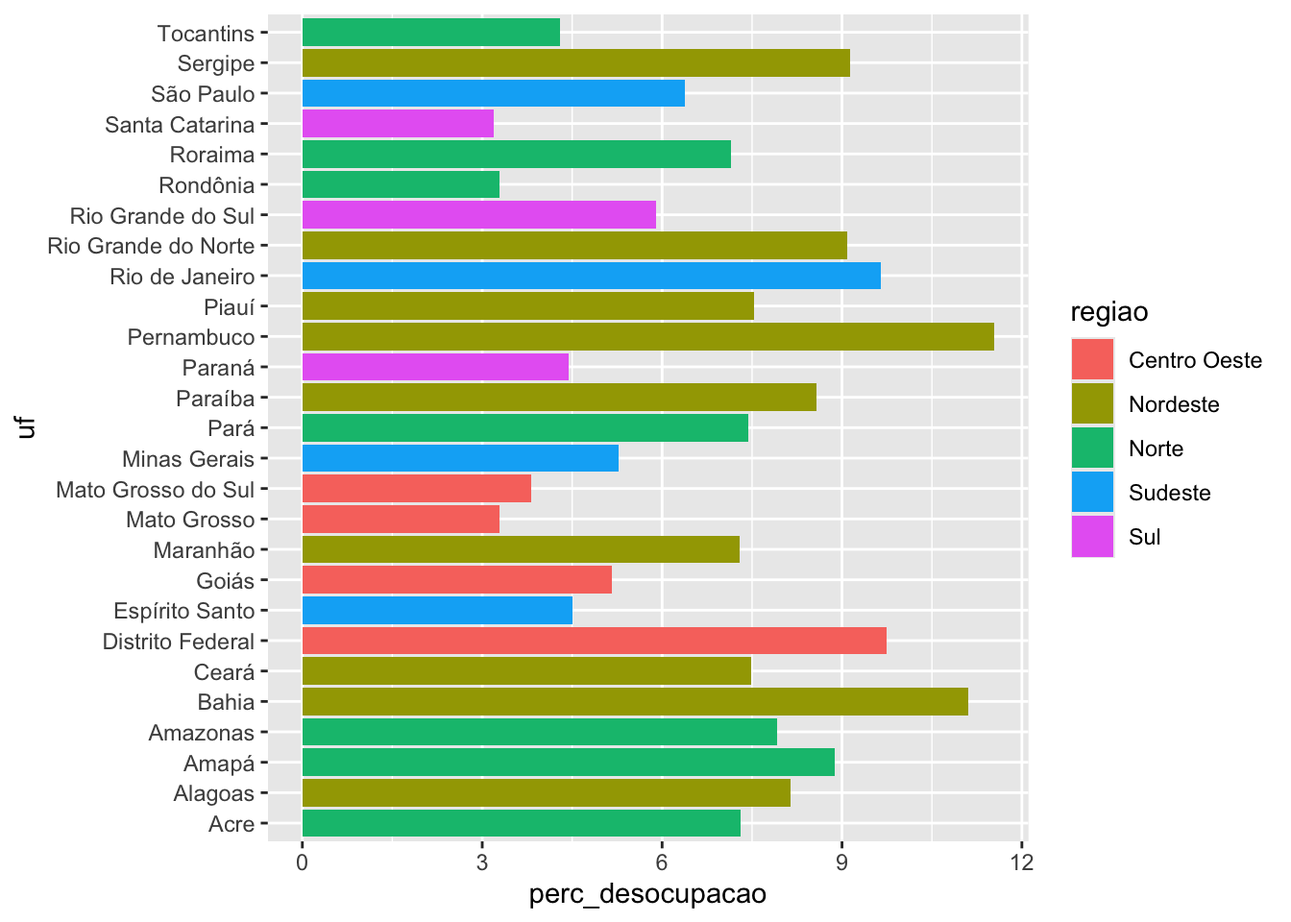
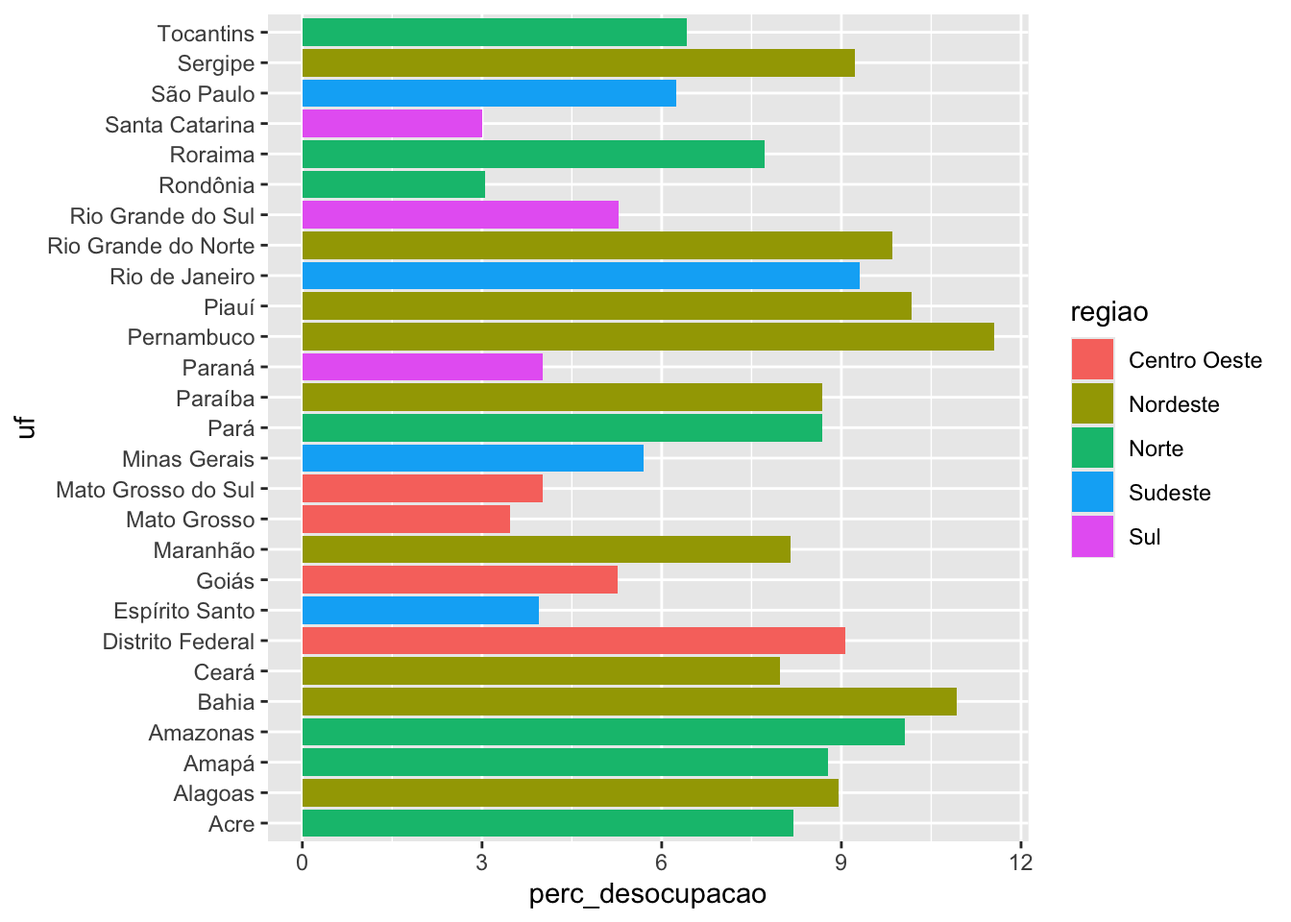
Built site for gh-pages

diff --git a/visualizacao/dia-2.html b/visualizacao/dia-2.html
@@ -255,19 +255,6 @@ pre > code.sourceCode > span > a:first-child::before { text-decoration: underlin
 </header>
 
 
-<div class="callout callout-style-default callout-warning callout-titled">
-<div class="callout-header d-flex align-content-center">
-<div class="callout-icon-container">
-<i class="callout-icon"></i>
-</div>
-<div class="callout-title-container flex-fill">
-Aviso
-</div>
-</div>
-<div class="callout-body-container callout-body">
-<p>Página em construção.</p>
-</div>
-</div>
 <section id="carregando-pacotes" class="level2" data-number="5.1">
 <h2 data-number="5.1" class="anchored" data-anchor-id="carregando-pacotes"><span class="header-section-number">5.1</span> Carregando pacotes</h2>
 <p>O pacote <code>tidyverse</code> é um conjunto de pacotes, e nele encontramos pacotes úteis para essa oficina, como o <code>readr</code>, <code>dplyr</code> e <code>ggplot2</code>. Vamos carregá-lo:</p>
@@ -291,7 +278,7 @@ Aviso
 <h2 data-number="5.2" class="anchored" data-anchor-id="importando-dados"><span class="header-section-number">5.2</span> Importando dados</h2>
 <p>Vamos carregar a base de dados com a função <code>read_rds()</code>:</p>
 <div class="cell">
-<div class="sourceCode cell-code" id="annotated-cell-2"><pre class="sourceCode r code-annotation-code code-with-copy code-annotated"><code class="sourceCode r"><a class="code-annotation-anchor" data-target-cell="annotated-cell-2" data-target-annotation="1" onclick="event.preventDefault();">1</a><span id="annotated-cell-2-1" class="code-annotation-target"><a href="#annotated-cell-2-1" aria-hidden="true" tabindex="-1"></a>dados <span class="ot">&lt;-</span> readr<span class="sc">::</span><span class="fu">read_rds</span>(<span class="st">"dados/sidra_4092_arrumado.rds"</span>)</span>
+<div class="sourceCode cell-code" id="annotated-cell-2"><pre class="sourceCode r code-annotation-code code-with-copy code-annotated"><code class="sourceCode r"><a class="code-annotation-anchor" data-target-cell="annotated-cell-2" data-target-annotation="1" onclick="event.preventDefault();">1</a><span id="annotated-cell-2-1" class="code-annotation-target"><a href="#annotated-cell-2-1" aria-hidden="true" tabindex="-1"></a>dados <span class="ot">&lt;-</span> <span class="fu">read_rds</span>(<span class="st">"dados/sidra_4092_arrumado.rds"</span>)</span>
 <a class="code-annotation-anchor" data-target-cell="annotated-cell-2" data-target-annotation="2" onclick="event.preventDefault();">2</a><span id="annotated-cell-2-2" class="code-annotation-target"><a href="#annotated-cell-2-2" aria-hidden="true" tabindex="-1"></a><span class="fu">glimpse</span>(dados)</span><div class="code-annotation-gutter-bg"></div><div class="code-annotation-gutter"></div></code><button title="Copiar para a área de transferência" class="code-copy-button"><i class="bi"></i></button></pre></div>
 <div class="cell-annotation">
 <dl class="code-annotation-container-grid">
@@ -306,7 +293,7 @@ Aviso
 </dl>
 </div>
 <div class="cell-output cell-output-stdout">
-<pre><code>Rows: 1,350
+<pre><code>Rows: 1,431
 Columns: 16
 $ uf                                       &lt;chr&gt; "Amapá", "Bahia", "Rio Grande…
 $ uf_codigo                                &lt;fct&gt; 16, 29, 24, 27, 13, 28, 25, 2…
@@ -478,7 +465,7 @@ $ periodo_pandemia                         &lt;dbl&gt; 0, 0, 0, 0, 0, 0, 0, 0, 0
 <p>No caso do nosso exemplo, queremos ordenar as barras de acordo com o valor de <code>perc_desocupacao</code>, e a variável categórica que queremos ordenar é <code>uf</code>. Portanto, usaremos <code>fct_reorder(uf, perc_desocupacao)</code>.</p>
 <div class="cell">
 <div class="sourceCode cell-code" id="annotated-cell-8"><pre class="sourceCode r code-annotation-code code-with-copy code-annotated"><code class="sourceCode r"><span id="annotated-cell-8-1"><a href="#annotated-cell-8-1" aria-hidden="true" tabindex="-1"></a>grafico_ordenado <span class="ot">&lt;-</span> dados_tri_recente <span class="sc">|&gt;</span> </span>
-<a class="code-annotation-anchor" data-target-cell="annotated-cell-8" data-target-annotation="1" onclick="event.preventDefault();">1</a><span id="annotated-cell-8-2" class="code-annotation-target"><a href="#annotated-cell-8-2" aria-hidden="true" tabindex="-1"></a>  <span class="fu">mutate</span>(<span class="at">uf_fct =</span> forcats<span class="sc">::</span><span class="fu">fct_reorder</span>(uf, perc_desocupacao)) <span class="sc">|&gt;</span></span>
+<a class="code-annotation-anchor" data-target-cell="annotated-cell-8" data-target-annotation="1" onclick="event.preventDefault();">1</a><span id="annotated-cell-8-2" class="code-annotation-target"><a href="#annotated-cell-8-2" aria-hidden="true" tabindex="-1"></a>  <span class="fu">mutate</span>(<span class="at">uf_fct =</span> <span class="fu">fct_reorder</span>(uf, perc_desocupacao)) <span class="sc">|&gt;</span></span>
 <span id="annotated-cell-8-3"><a href="#annotated-cell-8-3" aria-hidden="true" tabindex="-1"></a>  <span class="fu">ggplot</span>() <span class="sc">+</span> </span>
 <a class="code-annotation-anchor" data-target-cell="annotated-cell-8" data-target-annotation="2" onclick="event.preventDefault();">2</a><span id="annotated-cell-8-4" class="code-annotation-target"><a href="#annotated-cell-8-4" aria-hidden="true" tabindex="-1"></a>  <span class="fu">aes</span>(<span class="at">y =</span> uf_fct, <span class="at">x =</span> perc_desocupacao) <span class="sc">+</span></span>
 <span id="annotated-cell-8-5"><a href="#annotated-cell-8-5" aria-hidden="true" tabindex="-1"></a>  <span class="fu">geom_col</span>()</span>
@@ -552,7 +539,7 @@ $ periodo_pandemia                         &lt;dbl&gt; 0, 0, 0, 0, 0, 0, 0, 0, 0
 <p>O <code>{ggplot2}</code> apresenta várias funções para trabalhar com as escalas dos gráficos. Essas funções apresentam o prefixo <code>scale_</code>.</p>
 <p>Vamos explorar algumas dessas funções para trabalhar com escalas, mas lembre-se que existem muitas outras funções para customizar as escalas dos gráficos.</p>
 <div class="callout callout-style-default callout-tip callout-titled">
-<div class="callout-header d-flex align-content-center" data-bs-toggle="collapse" data-bs-target=".callout-2-contents" aria-controls="callout-2" aria-expanded="false" aria-label="Toggle callout">
+<div class="callout-header d-flex align-content-center" data-bs-toggle="collapse" data-bs-target=".callout-1-contents" aria-controls="callout-1" aria-expanded="false" aria-label="Toggle callout">
 <div class="callout-icon-container">
 <i class="callout-icon"></i>
 </div>
@@ -561,7 +548,7 @@ Lista de funções para escalas no ggplot2
 </div>
 <div class="callout-btn-toggle d-inline-block border-0 py-1 ps-1 pe-0 float-end"><i class="callout-toggle"></i></div>
 </div>
-<div id="callout-2" class="callout-2-contents callout-collapse collapse">
+<div id="callout-1" class="callout-1-contents callout-collapse collapse">
 <div class="callout-body-container callout-body">
 <div class="cell">
 <div class="sourceCode cell-code" id="cb9"><pre class="sourceCode r code-with-copy"><code class="sourceCode r"><span id="cb9-1"><a href="#cb9-1" aria-hidden="true" tabindex="-1"></a><span class="fu">ls</span>(<span class="st">"package:ggplot2"</span>) <span class="sc">|&gt;</span> </span>
@@ -675,7 +662,7 @@ Lista de funções para escalas no ggplot2
 </div>
 </div>
 <div class="callout callout-style-default callout-tip callout-titled">
-<div class="callout-header d-flex align-content-center" data-bs-toggle="collapse" data-bs-target=".callout-3-contents" aria-controls="callout-3" aria-expanded="false" aria-label="Toggle callout">
+<div class="callout-header d-flex align-content-center" data-bs-toggle="collapse" data-bs-target=".callout-2-contents" aria-controls="callout-2" aria-expanded="false" aria-label="Toggle callout">
 <div class="callout-icon-container">
 <i class="callout-icon"></i>
 </div>
@@ -684,7 +671,7 @@ Lista de funções para escalas de cores no ggplot2
 </div>
 <div class="callout-btn-toggle d-inline-block border-0 py-1 ps-1 pe-0 float-end"><i class="callout-toggle"></i></div>
 </div>
-<div id="callout-3" class="callout-3-contents callout-collapse collapse">
+<div id="callout-2" class="callout-2-contents callout-collapse collapse">
 <div class="callout-body-container callout-body">
 <ul>
 <li>Para o atributo <code>color</code>:</li>
@@ -744,21 +731,21 @@ Lista de funções para escalas de cores no ggplot2
 <p>Vamos criar um gráfico de linhas para visualizar a evolução da taxa de desocupação desde 2022 para a Bahia, e customizar a escala do eixo <code>x</code> para apresentar as datas de forma a apresentar uma marcação cada 3 meses:</p>
 <div class="cell">
 <div class="sourceCode cell-code" id="annotated-cell-12"><pre class="sourceCode r code-annotation-code code-with-copy code-annotated"><code class="sourceCode r"><span id="annotated-cell-12-1"><a href="#annotated-cell-12-1" aria-hidden="true" tabindex="-1"></a>dados <span class="sc">|&gt;</span></span>
-<a class="code-annotation-anchor" data-target-cell="annotated-cell-12" data-target-annotation="1" onclick="event.preventDefault();">1</a><span id="annotated-cell-12-2" class="code-annotation-target"><a href="#annotated-cell-12-2" aria-hidden="true" tabindex="-1"></a>  <span class="fu">filter</span>(uf_sigla <span class="sc">==</span> <span class="st">"BA"</span>, ano <span class="sc">&gt;=</span> <span class="dv">2022</span>) <span class="sc">|&gt;</span></span>
+<a class="code-annotation-anchor" data-target-cell="annotated-cell-12" data-target-annotation="1" onclick="event.preventDefault();">1</a><span id="annotated-cell-12-2" class="code-annotation-target"><a href="#annotated-cell-12-2" aria-hidden="true" tabindex="-1"></a>  <span class="fu">filter</span>(uf_sigla <span class="sc">==</span> <span class="st">"SP"</span>, ano <span class="sc">&gt;=</span> <span class="dv">2019</span>) <span class="sc">|&gt;</span></span>
 <span id="annotated-cell-12-3"><a href="#annotated-cell-12-3" aria-hidden="true" tabindex="-1"></a>  <span class="fu">ggplot</span>() <span class="sc">+</span></span>
 <span id="annotated-cell-12-4"><a href="#annotated-cell-12-4" aria-hidden="true" tabindex="-1"></a>  <span class="fu">aes</span>(<span class="at">x =</span> trimestre_inicio, <span class="at">y =</span> perc_desocupacao) <span class="sc">+</span></span>
 <span id="annotated-cell-12-5"><a href="#annotated-cell-12-5" aria-hidden="true" tabindex="-1"></a>  <span class="fu">geom_line</span>() <span class="sc">+</span></span>
 <span id="annotated-cell-12-6"><a href="#annotated-cell-12-6" aria-hidden="true" tabindex="-1"></a>  <span class="fu">geom_point</span>() <span class="sc">+</span></span>
 <a class="code-annotation-anchor" data-target-cell="annotated-cell-12" data-target-annotation="2" onclick="event.preventDefault();">2</a><span id="annotated-cell-12-7" class="code-annotation-target"><a href="#annotated-cell-12-7" aria-hidden="true" tabindex="-1"></a>  <span class="fu">scale_x_date</span>(</span>
-<a class="code-annotation-anchor" data-target-cell="annotated-cell-12" data-target-annotation="3" onclick="event.preventDefault();">3</a><span id="annotated-cell-12-8" class="code-annotation-target"><a href="#annotated-cell-12-8" aria-hidden="true" tabindex="-1"></a>    <span class="at">breaks =</span> <span class="st">"3 months"</span>,</span>
+<a class="code-annotation-anchor" data-target-cell="annotated-cell-12" data-target-annotation="3" onclick="event.preventDefault();">3</a><span id="annotated-cell-12-8" class="code-annotation-target"><a href="#annotated-cell-12-8" aria-hidden="true" tabindex="-1"></a>    <span class="at">breaks =</span> <span class="st">"6 months"</span>,</span>
 <a class="code-annotation-anchor" data-target-cell="annotated-cell-12" data-target-annotation="4" onclick="event.preventDefault();">4</a><span id="annotated-cell-12-9" class="code-annotation-target"><a href="#annotated-cell-12-9" aria-hidden="true" tabindex="-1"></a>    <span class="at">date_labels =</span> <span class="st">"%m/%Y"</span>,</span>
-<a class="code-annotation-anchor" data-target-cell="annotated-cell-12" data-target-annotation="5" onclick="event.preventDefault();">5</a><span id="annotated-cell-12-10" class="code-annotation-target"><a href="#annotated-cell-12-10" aria-hidden="true" tabindex="-1"></a>    <span class="at">minor_breaks =</span> <span class="st">"1 month"</span></span>
+<a class="code-annotation-anchor" data-target-cell="annotated-cell-12" data-target-annotation="5" onclick="event.preventDefault();">5</a><span id="annotated-cell-12-10" class="code-annotation-target"><a href="#annotated-cell-12-10" aria-hidden="true" tabindex="-1"></a>    <span class="at">minor_breaks =</span> <span class="st">"1 months"</span></span>
 <span id="annotated-cell-12-11"><a href="#annotated-cell-12-11" aria-hidden="true" tabindex="-1"></a>  )</span><div class="code-annotation-gutter-bg"></div><div class="code-annotation-gutter"></div></code><button title="Copiar para a área de transferência" class="code-copy-button"><i class="bi"></i></button></pre></div>
 <div class="cell-annotation">
 <dl class="code-annotation-container-grid">
 <dt data-target-cell="annotated-cell-12" data-target-annotation="1">1</dt>
 <dd>
-<span data-code-cell="annotated-cell-12" data-code-lines="2" data-code-annotation="1">Filtrando os dados para a Bahia, e considerando apenas os dados a partir de 2022.</span>
+<span data-code-cell="annotated-cell-12" data-code-lines="2" data-code-annotation="1">Filtrando os dados para o estado de São Paulo, e considerando apenas os dados a partir de 2019.</span>
 </dd>
 <dt data-target-cell="annotated-cell-12" data-target-annotation="2">2</dt>
 <dd>
@@ -794,7 +781,7 @@ Lista de funções para escalas de cores no ggplot2
 <p>Podemos definir que o eixo <code>y</code> comece em 0 e termine em 20%, utilizando o argumento <code>limits</code> da função <code>scale_y_continuous()</code>:</p>
 <div class="cell">
 <div class="sourceCode cell-code" id="cb17"><pre class="sourceCode r code-with-copy"><code class="sourceCode r"><span id="cb17-1"><a href="#cb17-1" aria-hidden="true" tabindex="-1"></a>dados <span class="sc">|&gt;</span></span>
-<span id="cb17-2"><a href="#cb17-2" aria-hidden="true" tabindex="-1"></a>  <span class="fu">filter</span>(uf_sigla <span class="sc">==</span> <span class="st">"BA"</span>, ano <span class="sc">&gt;=</span> <span class="dv">2022</span>) <span class="sc">|&gt;</span></span>
+<span id="cb17-2"><a href="#cb17-2" aria-hidden="true" tabindex="-1"></a>  <span class="fu">filter</span>(uf_sigla <span class="sc">==</span> <span class="st">"SP"</span>, ano <span class="sc">&gt;=</span> <span class="dv">2019</span>) <span class="sc">|&gt;</span></span>
 <span id="cb17-3"><a href="#cb17-3" aria-hidden="true" tabindex="-1"></a>  <span class="fu">ggplot</span>() <span class="sc">+</span></span>
 <span id="cb17-4"><a href="#cb17-4" aria-hidden="true" tabindex="-1"></a>  <span class="fu">aes</span>(<span class="at">x =</span> trimestre_inicio, <span class="at">y =</span> perc_desocupacao) <span class="sc">+</span></span>
 <span id="cb17-5"><a href="#cb17-5" aria-hidden="true" tabindex="-1"></a>  <span class="fu">geom_line</span>() <span class="sc">+</span></span>
@@ -890,15 +877,15 @@ Lista de funções para escalas de cores no ggplot2
 <p>Vamos usar essas funções para customizar o gráfico apresentado no exemplo acima:</p>
 <div class="cell">
 <div class="sourceCode cell-code" id="annotated-cell-19"><pre class="sourceCode r code-annotation-code code-with-copy code-annotated"><code class="sourceCode r"><a class="code-annotation-anchor" data-target-cell="annotated-cell-19" data-target-annotation="1" onclick="event.preventDefault();">1</a><span id="annotated-cell-19-1" class="code-annotation-target"><a href="#annotated-cell-19-1" aria-hidden="true" tabindex="-1"></a>grafico_customizado <span class="ot">&lt;-</span> dados <span class="sc">|&gt;</span></span>
-<span id="annotated-cell-19-2"><a href="#annotated-cell-19-2" aria-hidden="true" tabindex="-1"></a>  <span class="fu">filter</span>(regiao <span class="sc">==</span> <span class="st">"Sul"</span>) <span class="sc">|&gt;</span> </span>
+<span id="annotated-cell-19-2"><a href="#annotated-cell-19-2" aria-hidden="true" tabindex="-1"></a>  <span class="fu">filter</span>(regiao <span class="sc">==</span> <span class="st">"Sudeste"</span>) <span class="sc">|&gt;</span> </span>
 <span id="annotated-cell-19-3"><a href="#annotated-cell-19-3" aria-hidden="true" tabindex="-1"></a>  <span class="fu">ggplot</span>() <span class="sc">+</span> </span>
 <span id="annotated-cell-19-4"><a href="#annotated-cell-19-4" aria-hidden="true" tabindex="-1"></a>  <span class="fu">aes</span>(<span class="at">x =</span> trimestre_inicio, <span class="at">y =</span> perc_desocupacao, <span class="at">color =</span> uf) <span class="sc">+</span>  </span>
 <span id="annotated-cell-19-5"><a href="#annotated-cell-19-5" aria-hidden="true" tabindex="-1"></a>  <span class="fu">geom_line</span>() <span class="sc">+</span> </span>
 <a class="code-annotation-anchor" data-target-cell="annotated-cell-19" data-target-annotation="2" onclick="event.preventDefault();">2</a><span id="annotated-cell-19-6" class="code-annotation-target"><a href="#annotated-cell-19-6" aria-hidden="true" tabindex="-1"></a>  <span class="fu">theme_light</span>() <span class="sc">+</span></span>
-<a class="code-annotation-anchor" data-target-cell="annotated-cell-19" data-target-annotation="3" onclick="event.preventDefault();">3</a><span id="annotated-cell-19-7" class="code-annotation-target"><a href="#annotated-cell-19-7" aria-hidden="true" tabindex="-1"></a>  <span class="fu">scale_color_viridis_d</span>() <span class="sc">+</span></span>
+<a class="code-annotation-anchor" data-target-cell="annotated-cell-19" data-target-annotation="3" onclick="event.preventDefault();">3</a><span id="annotated-cell-19-7" class="code-annotation-target"><a href="#annotated-cell-19-7" aria-hidden="true" tabindex="-1"></a>  <span class="fu">scale_color_viridis_d</span>(<span class="at">end =</span> <span class="fl">0.9</span>) <span class="sc">+</span></span>
 <a class="code-annotation-anchor" data-target-cell="annotated-cell-19" data-target-annotation="4" onclick="event.preventDefault();">4</a><span id="annotated-cell-19-8" class="code-annotation-target"><a href="#annotated-cell-19-8" aria-hidden="true" tabindex="-1"></a>  <span class="fu">scale_x_date</span>(<span class="at">breaks =</span> <span class="st">"1 year"</span>, <span class="at">date_labels =</span> <span class="st">"%Y"</span>) <span class="sc">+</span></span>
 <a class="code-annotation-anchor" data-target-cell="annotated-cell-19" data-target-annotation="5" onclick="event.preventDefault();">5</a><span id="annotated-cell-19-9" class="code-annotation-target"><a href="#annotated-cell-19-9" aria-hidden="true" tabindex="-1"></a>  <span class="fu">labs</span>(</span>
-<span id="annotated-cell-19-10"><a href="#annotated-cell-19-10" aria-hidden="true" tabindex="-1"></a>    <span class="at">title =</span> <span class="st">"Taxa de desocupação por estado na região Sul"</span>,</span>
+<span id="annotated-cell-19-10"><a href="#annotated-cell-19-10" aria-hidden="true" tabindex="-1"></a>    <span class="at">title =</span> <span class="st">"Taxa de desocupação por estado na região Sudeste"</span>,</span>
 <span id="annotated-cell-19-11"><a href="#annotated-cell-19-11" aria-hidden="true" tabindex="-1"></a>    <span class="at">subtitle =</span> <span class="st">"Dados da PNAD Contínua Trimestral"</span>,</span>
 <span id="annotated-cell-19-12"><a href="#annotated-cell-19-12" aria-hidden="true" tabindex="-1"></a>    <span class="at">caption =</span> <span class="st">"Fonte dos dados: SIDRA/IBGE."</span>,</span>
 <span id="annotated-cell-19-13"><a href="#annotated-cell-19-13" aria-hidden="true" tabindex="-1"></a>    <span class="at">color =</span> <span class="st">"Estado"</span>,</span>

diff --git a/visualizacao/dia-1.html b/visualizacao/dia-1.html
@@ -281,7 +281,7 @@ pre > code.sourceCode > span > a:first-child::before { text-decoration: underlin
 </section>
 <section id="importando-dados" class="level2" data-number="4.2">
 <h2 data-number="4.2" class="anchored" data-anchor-id="importando-dados"><span class="header-section-number">4.2</span> Importando dados</h2>
-<p>Nesta aula, utilizaremos a tabela preparada na <a href="05_transformacao">aula sobre transformação de dados</a>: <code>"dados/sidra_4092_arrumado.rds"</code>.</p>
+<p>Os dados que utilizaremos nesta oficina são referentes à taxa de desocupação no Brasil, coletados do <a href="https://sidra.ibge.gov.br/">SIDRA</a>. A forma de importação e preparação dos dados está disponível no arquivo <a href="https://github.com/beatrizmilz/2025-07-fbcp/blob/main/visualizacao/dados/prep-dados.R">visualizacao/dados/prep-dados.R</a> no repositório do curso.</p>
 <div class="callout callout-style-default callout-important callout-titled">
 <div class="callout-header d-flex align-content-center" data-bs-toggle="collapse" data-bs-target=".callout-1-contents" aria-controls="callout-1" aria-expanded="false" aria-label="Toggle callout">
 <div class="callout-icon-container">
@@ -294,11 +294,9 @@ Expanda para fazer download da base de dados
 </div>
 <div id="callout-1" class="callout-1-contents callout-collapse collapse">
 <div class="callout-body-container callout-body">
-<p>Caso não tenha o arquivo da tabela que utilizaremos, você pode baixar <a href="https://github.com/ipeadata-lab/curso_r_intro_202409/raw/refs/heads/main/dados_output/sidra_4092_arrumado.rds">aqui</a>, e copiar o arquivo para a pasta <code>dados_output</code> do seu projeto.</p>
-<p>Outra opção é executar o código abaixo:</p>
 <div class="cell">
 <div class="sourceCode cell-code" id="annotated-cell-24"><pre class="sourceCode r code-annotation-code code-with-copy code-annotated"><code class="sourceCode r"><span id="annotated-cell-24-1"><a href="#annotated-cell-24-1" aria-hidden="true" tabindex="-1"></a><span class="fu">download.file</span>(</span>
-<a class="code-annotation-anchor" data-target-cell="annotated-cell-24" data-target-annotation="1" onclick="event.preventDefault();">1</a><span id="annotated-cell-24-2" class="code-annotation-target"><a href="#annotated-cell-24-2" aria-hidden="true" tabindex="-1"></a>  <span class="at">url =</span> <span class="st">"https://github.com/ipeadata-lab/curso_r_intro_202409/raw/refs/heads/main/dados_output/sidra_4092_arrumado.rds"</span>,</span>
+<a class="code-annotation-anchor" data-target-cell="annotated-cell-24" data-target-annotation="1" onclick="event.preventDefault();">1</a><span id="annotated-cell-24-2" class="code-annotation-target"><a href="#annotated-cell-24-2" aria-hidden="true" tabindex="-1"></a>  <span class="at">url =</span> <span class="st">"https://github.com/beatrizmilz/2025-07-fbcp/raw/refs/heads/main/visualizacao/dados/sidra_4092_arrumado.rds"</span>,</span>
 <a class="code-annotation-anchor" data-target-cell="annotated-cell-24" data-target-annotation="2" onclick="event.preventDefault();">2</a><span id="annotated-cell-24-3" class="code-annotation-target"><a href="#annotated-cell-24-3" aria-hidden="true" tabindex="-1"></a>  <span class="at">destfile =</span> <span class="st">"dados/sidra_4092_arrumado.rds"</span>,</span>
 <a class="code-annotation-anchor" data-target-cell="annotated-cell-24" data-target-annotation="3" onclick="event.preventDefault();">3</a><span id="annotated-cell-24-4" class="code-annotation-target"><a href="#annotated-cell-24-4" aria-hidden="true" tabindex="-1"></a>  <span class="at">mode =</span> <span class="st">"wb"</span></span>
 <span id="annotated-cell-24-5"><a href="#annotated-cell-24-5" aria-hidden="true" tabindex="-1"></a>  )</span><div class="code-annotation-gutter-bg"></div><div class="code-annotation-gutter"></div></code><button title="Copiar para a área de transferência" class="code-copy-button"><i class="bi"></i></button></pre></div>
@@ -324,7 +322,7 @@ Expanda para fazer download da base de dados
 </div>
 <p>Vamos carregar a base de dados com a função <code>read_rds()</code>:</p>
 <div class="cell">
-<div class="sourceCode cell-code" id="annotated-cell-2"><pre class="sourceCode r code-annotation-code code-with-copy code-annotated"><code class="sourceCode r"><a class="code-annotation-anchor" data-target-cell="annotated-cell-2" data-target-annotation="1" onclick="event.preventDefault();">1</a><span id="annotated-cell-2-1" class="code-annotation-target"><a href="#annotated-cell-2-1" aria-hidden="true" tabindex="-1"></a>dados <span class="ot">&lt;-</span> readr<span class="sc">::</span><span class="fu">read_rds</span>(<span class="st">"dados/sidra_4092_arrumado.rds"</span>)</span>
+<div class="sourceCode cell-code" id="annotated-cell-2"><pre class="sourceCode r code-annotation-code code-with-copy code-annotated"><code class="sourceCode r"><a class="code-annotation-anchor" data-target-cell="annotated-cell-2" data-target-annotation="1" onclick="event.preventDefault();">1</a><span id="annotated-cell-2-1" class="code-annotation-target"><a href="#annotated-cell-2-1" aria-hidden="true" tabindex="-1"></a>dados <span class="ot">&lt;-</span> <span class="fu">read_rds</span>(<span class="st">"dados/sidra_4092_arrumado.rds"</span>)</span>
 <a class="code-annotation-anchor" data-target-cell="annotated-cell-2" data-target-annotation="2" onclick="event.preventDefault();">2</a><span id="annotated-cell-2-2" class="code-annotation-target"><a href="#annotated-cell-2-2" aria-hidden="true" tabindex="-1"></a><span class="fu">glimpse</span>(dados)</span><div class="code-annotation-gutter-bg"></div><div class="code-annotation-gutter"></div></code><button title="Copiar para a área de transferência" class="code-copy-button"><i class="bi"></i></button></pre></div>
 <div class="cell-annotation">
 <dl class="code-annotation-container-grid">
@@ -339,7 +337,7 @@ Expanda para fazer download da base de dados
 </dl>
 </div>
 <div class="cell-output cell-output-stdout">
-<pre><code>Rows: 1,350
+<pre><code>Rows: 1,431
 Columns: 16
 $ uf                                       &lt;chr&gt; "Amapá", "Bahia", "Rio Grande…
 $ uf_codigo                                &lt;fct&gt; 16, 29, 24, 27, 13, 28, 25, 2…
@@ -464,7 +462,6 @@ Dica
 <h2 data-number="4.5" class="anchored" data-anchor-id="criando-gráficos-exploratórios"><span class="header-section-number">4.5</span> Criando gráficos exploratórios</h2>
 <p>Vamos criar alguns gráficos exploratórios com os dados de desocupação por trimestre e por estado.</p>
 <p>Gráficos exploratórios são utilizados para entender melhor os dados, identificar padrões e tendências, e verificar a presença de outliers. Neste momento, não estamos preocupados com a estética do gráfico, mas sim com a interpretação dos dados.</p>
-<p>Falaremos como <a href="#customizando-gr%C3%A1ficos">customizar os gráficos mais adiante</a>.</p>
 <section id="tipos-de-gráficos" class="level3" data-number="4.5.1">
 <h3 data-number="4.5.1" class="anchored" data-anchor-id="tipos-de-gráficos"><span class="header-section-number">4.5.1</span> Tipos de gráficos</h3>
 <section id="gráficos-de-dispersão" class="level4" data-number="4.5.1.1">
@@ -473,7 +470,7 @@ Dica
 <p>O gráfico de dispersão é utilizado para visualizar a relação entre duas variáveis quantitativas.</p>
 <div class="cell">
 <div class="sourceCode cell-code" id="cb6"><pre class="sourceCode r code-with-copy"><code class="sourceCode r"><span id="cb6-1"><a href="#cb6-1" aria-hidden="true" tabindex="-1"></a>dados <span class="sc">|&gt;</span></span>
-<span id="cb6-2"><a href="#cb6-2" aria-hidden="true" tabindex="-1"></a>  <span class="fu">filter</span>(uf_sigla <span class="sc">==</span> <span class="st">"BA"</span>) <span class="sc">|&gt;</span></span>
+<span id="cb6-2"><a href="#cb6-2" aria-hidden="true" tabindex="-1"></a>  <span class="fu">filter</span>(uf_sigla <span class="sc">==</span> <span class="st">"SP"</span>) <span class="sc">|&gt;</span></span>
 <span id="cb6-3"><a href="#cb6-3" aria-hidden="true" tabindex="-1"></a>  <span class="fu">ggplot</span>() <span class="sc">+</span></span>
 <span id="cb6-4"><a href="#cb6-4" aria-hidden="true" tabindex="-1"></a>  <span class="fu">aes</span>(<span class="at">x =</span> trimestre_inicio, <span class="at">y =</span> perc_desocupacao) <span class="sc">+</span></span>
 <span id="cb6-5"><a href="#cb6-5" aria-hidden="true" tabindex="-1"></a>  <span class="fu">geom_point</span>()</span></code><button title="Copiar para a área de transferência" class="code-copy-button"><i class="bi"></i></button></pre></div>
@@ -492,7 +489,7 @@ Dica
 <p>Vamos criar um gráfico de linha para visualizar a evolução da taxa de desocupação ao longo dos trimestres para apenas um estado:</p>
 <div class="cell">
 <div class="sourceCode cell-code" id="cb7"><pre class="sourceCode r code-with-copy"><code class="sourceCode r"><span id="cb7-1"><a href="#cb7-1" aria-hidden="true" tabindex="-1"></a>dados <span class="sc">|&gt;</span> </span>
-<span id="cb7-2"><a href="#cb7-2" aria-hidden="true" tabindex="-1"></a>  <span class="fu">filter</span>(uf_sigla <span class="sc">==</span> <span class="st">"BA"</span>) <span class="sc">|&gt;</span> </span>
+<span id="cb7-2"><a href="#cb7-2" aria-hidden="true" tabindex="-1"></a>  <span class="fu">filter</span>(uf_sigla <span class="sc">==</span> <span class="st">"SP"</span>) <span class="sc">|&gt;</span> </span>
 <span id="cb7-3"><a href="#cb7-3" aria-hidden="true" tabindex="-1"></a>  <span class="fu">ggplot</span>() <span class="sc">+</span> </span>
 <span id="cb7-4"><a href="#cb7-4" aria-hidden="true" tabindex="-1"></a>  <span class="fu">aes</span>(<span class="at">x =</span> trimestre_inicio, <span class="at">y =</span> perc_desocupacao) <span class="sc">+</span> </span>
 <span id="cb7-5"><a href="#cb7-5" aria-hidden="true" tabindex="-1"></a>  <span class="fu">geom_line</span>()</span></code><button title="Copiar para a área de transferência" class="code-copy-button"><i class="bi"></i></button></pre></div>
@@ -525,7 +522,7 @@ Dica
 <p>Podemos combinar diferentes geometrias no mesmo gráfico. Por exemplo, podemos adicionar um gráfico de pontos ao gráfico de linhas que criamos anteriormente:</p>
 <div class="cell">
 <div class="sourceCode cell-code" id="cb9"><pre class="sourceCode r code-with-copy"><code class="sourceCode r"><span id="cb9-1"><a href="#cb9-1" aria-hidden="true" tabindex="-1"></a>dados <span class="sc">|&gt;</span> </span>
-<span id="cb9-2"><a href="#cb9-2" aria-hidden="true" tabindex="-1"></a>  <span class="fu">filter</span>(uf_sigla <span class="sc">==</span> <span class="st">"BA"</span>) <span class="sc">|&gt;</span> </span>
+<span id="cb9-2"><a href="#cb9-2" aria-hidden="true" tabindex="-1"></a>  <span class="fu">filter</span>(uf_sigla <span class="sc">==</span> <span class="st">"SP"</span>) <span class="sc">|&gt;</span> </span>
 <span id="cb9-3"><a href="#cb9-3" aria-hidden="true" tabindex="-1"></a>  <span class="fu">ggplot</span>() <span class="sc">+</span> </span>
 <span id="cb9-4"><a href="#cb9-4" aria-hidden="true" tabindex="-1"></a>  <span class="fu">aes</span>(<span class="at">x =</span> trimestre_inicio, <span class="at">y =</span> perc_desocupacao) <span class="sc">+</span> </span>
 <span id="cb9-5"><a href="#cb9-5" aria-hidden="true" tabindex="-1"></a>  <span class="fu">geom_line</span>(<span class="at">color =</span> <span class="st">"red"</span>) <span class="sc">+</span></span>
@@ -541,7 +538,7 @@ Dica
 <p>Outro ponto importante é que a <strong>ordem das geometrias importa</strong>! No exemplo acima, a linha é desenhada primeiro, e os pontos são adicionados por cima da linha. Se trocarmos a ordem das geometrias, os pontos serão desenhados primeiro, e a linha será desenhada por cima dos pontos.</p>
 <div class="cell">
 <div class="sourceCode cell-code" id="cb10"><pre class="sourceCode r code-with-copy"><code class="sourceCode r"><span id="cb10-1"><a href="#cb10-1" aria-hidden="true" tabindex="-1"></a>dados <span class="sc">|&gt;</span> </span>
-<span id="cb10-2"><a href="#cb10-2" aria-hidden="true" tabindex="-1"></a>  <span class="fu">filter</span>(uf_sigla <span class="sc">==</span> <span class="st">"BA"</span>) <span class="sc">|&gt;</span> </span>
+<span id="cb10-2"><a href="#cb10-2" aria-hidden="true" tabindex="-1"></a>  <span class="fu">filter</span>(uf_sigla <span class="sc">==</span> <span class="st">"SP"</span>) <span class="sc">|&gt;</span> </span>
 <span id="cb10-3"><a href="#cb10-3" aria-hidden="true" tabindex="-1"></a>  <span class="fu">ggplot</span>() <span class="sc">+</span> </span>
 <span id="cb10-4"><a href="#cb10-4" aria-hidden="true" tabindex="-1"></a>  <span class="fu">aes</span>(<span class="at">x =</span> trimestre_inicio, <span class="at">y =</span> perc_desocupacao) <span class="sc">+</span> </span>
 <span id="cb10-5"><a href="#cb10-5" aria-hidden="true" tabindex="-1"></a>  <span class="fu">geom_point</span>(<span class="at">color =</span> <span class="st">"blue"</span>) <span class="sc">+</span></span>
@@ -673,7 +670,7 @@ Dica
 <p>Vamos ver um exemplo de gráfico de linhas apresentado anteriormente, adicionamos pontos e usamos a cor para representar o período que consideramos como pandemia (<code>color</code>):</p>
 <div class="cell">
 <div class="sourceCode cell-code" id="annotated-cell-18"><pre class="sourceCode r code-annotation-code code-with-copy code-annotated"><code class="sourceCode r"><span id="annotated-cell-18-1"><a href="#annotated-cell-18-1" aria-hidden="true" tabindex="-1"></a>dados <span class="sc">|&gt;</span> </span>
-<a class="code-annotation-anchor" data-target-cell="annotated-cell-18" data-target-annotation="1" onclick="event.preventDefault();">1</a><span id="annotated-cell-18-2" class="code-annotation-target"><a href="#annotated-cell-18-2" aria-hidden="true" tabindex="-1"></a>  <span class="fu">filter</span>(uf_sigla <span class="sc">==</span> <span class="st">"BA"</span>) <span class="sc">|&gt;</span></span>
+<a class="code-annotation-anchor" data-target-cell="annotated-cell-18" data-target-annotation="1" onclick="event.preventDefault();">1</a><span id="annotated-cell-18-2" class="code-annotation-target"><a href="#annotated-cell-18-2" aria-hidden="true" tabindex="-1"></a>  <span class="fu">filter</span>(uf_sigla <span class="sc">==</span> <span class="st">"SP"</span>) <span class="sc">|&gt;</span></span>
 <span id="annotated-cell-18-3"><a href="#annotated-cell-18-3" aria-hidden="true" tabindex="-1"></a>  <span class="fu">mutate</span>(<span class="at">periodo_pandemia =</span> <span class="fu">as.character</span>(periodo_pandemia)) <span class="sc">|&gt;</span></span>
 <span id="annotated-cell-18-4"><a href="#annotated-cell-18-4" aria-hidden="true" tabindex="-1"></a>  <span class="fu">ggplot</span>() <span class="sc">+</span> </span>
 <span id="annotated-cell-18-5"><a href="#annotated-cell-18-5" aria-hidden="true" tabindex="-1"></a>  <span class="fu">aes</span>(<span class="at">x =</span> trimestre_inicio, <span class="at">y =</span> perc_desocupacao) <span class="sc">+</span> </span>
